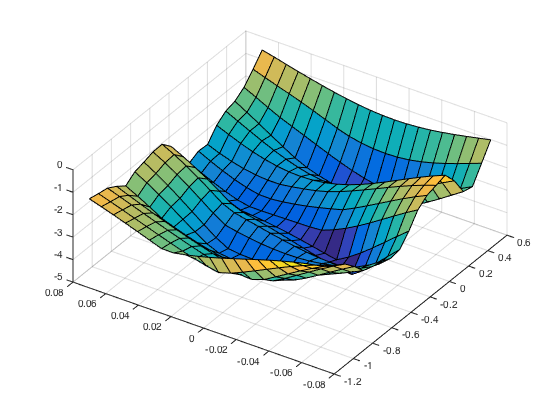
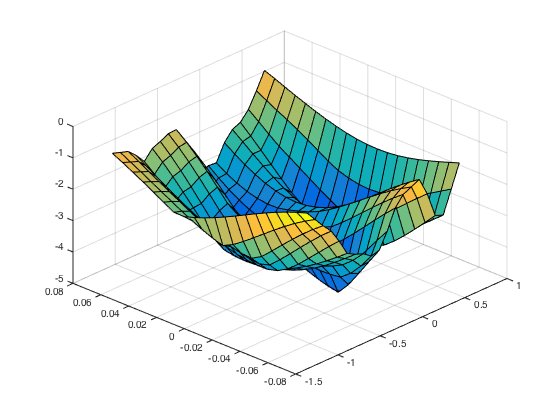
report

diff --git a/TP4/Report4.tex b/TP4/Report4.tex
@@ -26,7 +26,7 @@ Intuitively, the optimal value function would reach a maximum at position $x = 0
 
 \section{Approximate Value Iteration : Fitted-Q iteration} 
 
-At each n draws of couples $(s,a)$, we learn the parameters $\alpha$ with a least-squares regression. In order to gain time, we initialize the $\alpha$ with negative values, as the value function should be negative (reward = 0 in position 0,6 and -1 elsewhere).\\
+At each n draws of couples $(s,a)$, we learn the parameters $\alpha$ with a least-squares regression. In order to gain time, we initialize the $\alpha$ with negative values, as the value function should be negative (reward = 0 in position 0.6 and -1 elsewhere).\\
 In the deterministic case ($\epsilon = 0$), with 20 features, and 5000 draws at each iteration, we get a convergence in 5 iterations, and here is what we obtain for the approximated optimal value function :
 
 \begin{figure}[H]
@@ -43,14 +43,14 @@ If we take only 10 features, we get
 	\noindent\includegraphics[scale=0.3]{fittedQ-10feat-determ-flat.png}
 	\caption{Left: Approximated optimal value function with fitted-Q for 10 features, in the deterministic case, in 3D - Right : Level values}
 \end{figure}
-
-Whereas when increasing to 30 features, we get, we get
+The general shape of $Q$ is not very different, but obviously there are not enough features, because $Q=0$ on a large part of the mesh. 
+\\When increasing to 30 features, we get results very similar to what we get with 20 features.
 \begin{figure}[H]
 	\centering
 	\noindent\includegraphics[scale=0.3]{fittedQ-30feat-determ.png}
 	\noindent\includegraphics[scale=0.3]{fittedQ-30feat-determ-flat.png}
 	\caption{Left: Approximated optimal value function with fitted-Q for 30 features, in the deterministic case, in 3D - Right : Level values}
 \end{figure}
-
+The more features we take, the more iterations are needed for $\alpha$ to converge : 15 iterations for 30 features, 4 for 10.
 
 \end{document} 
